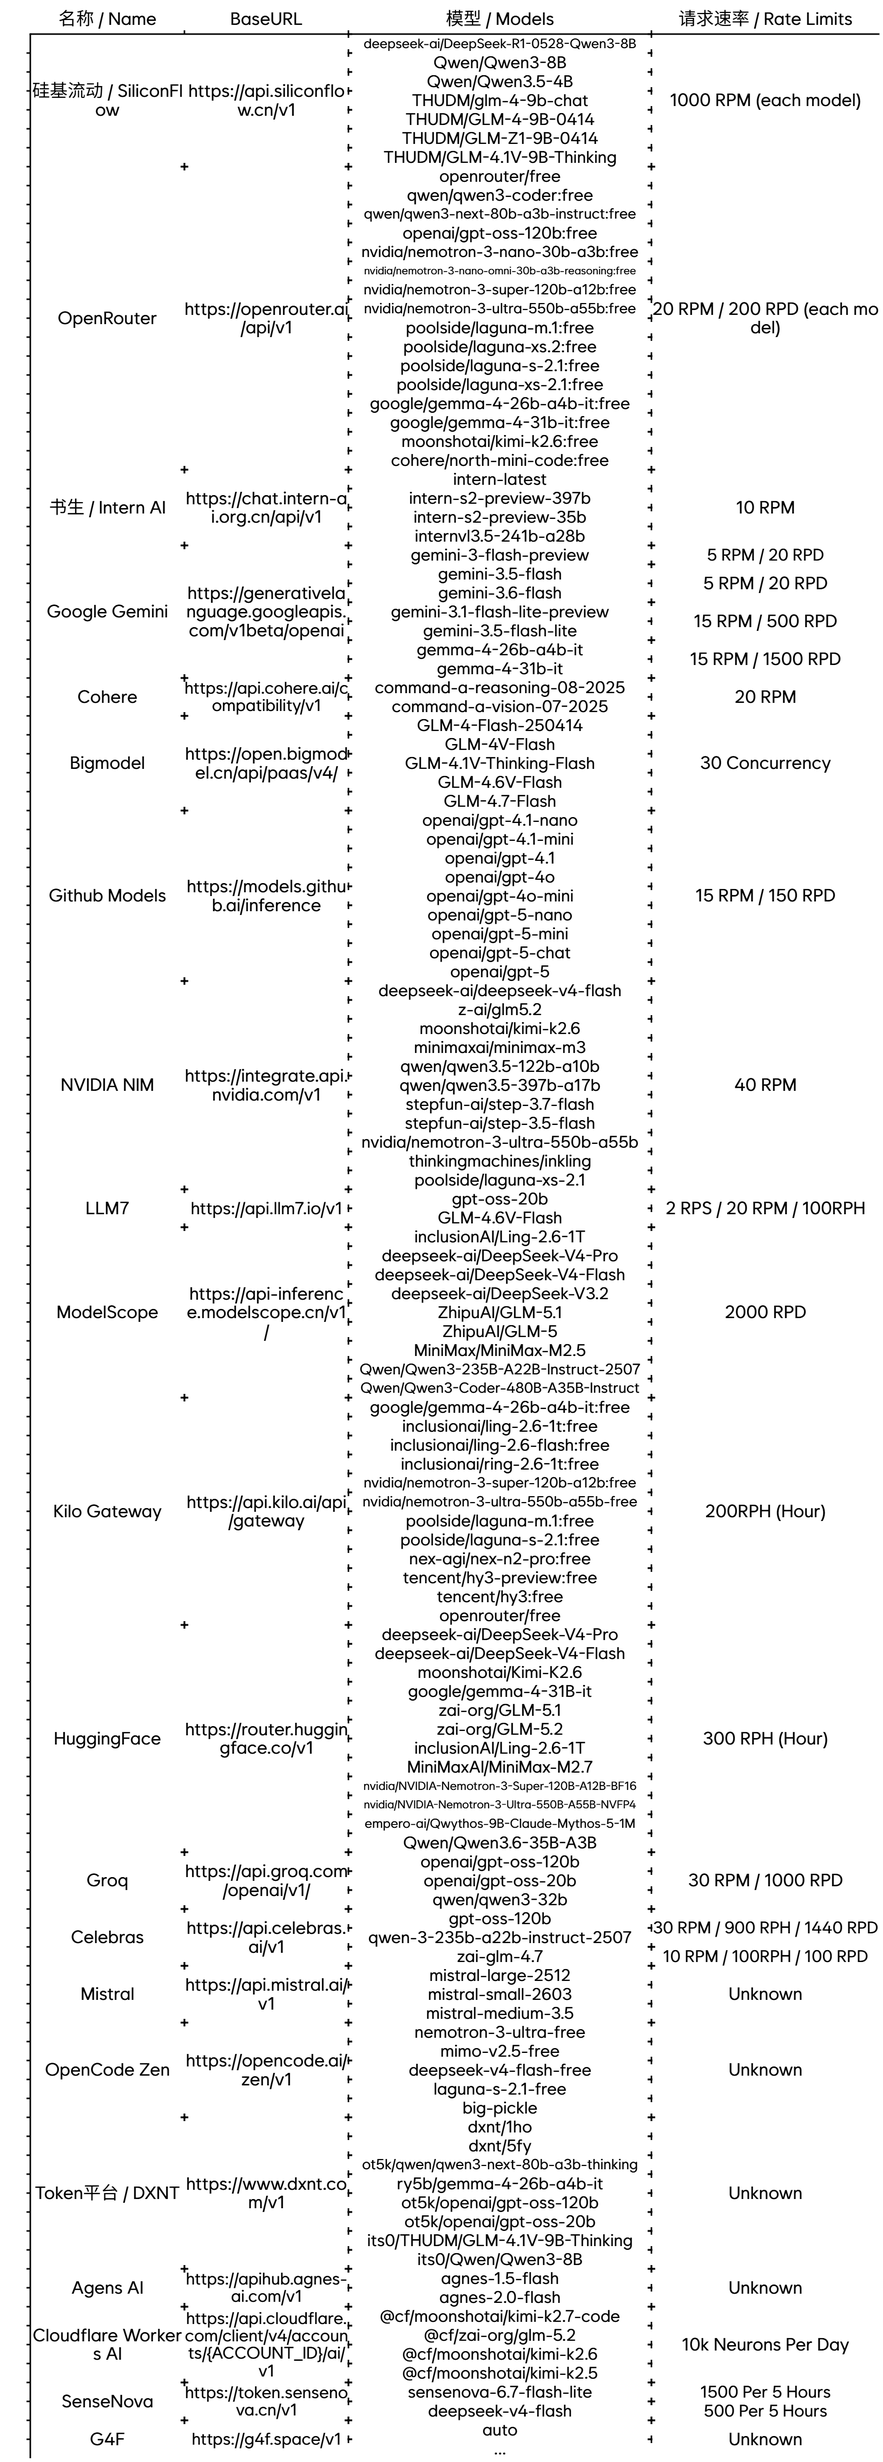
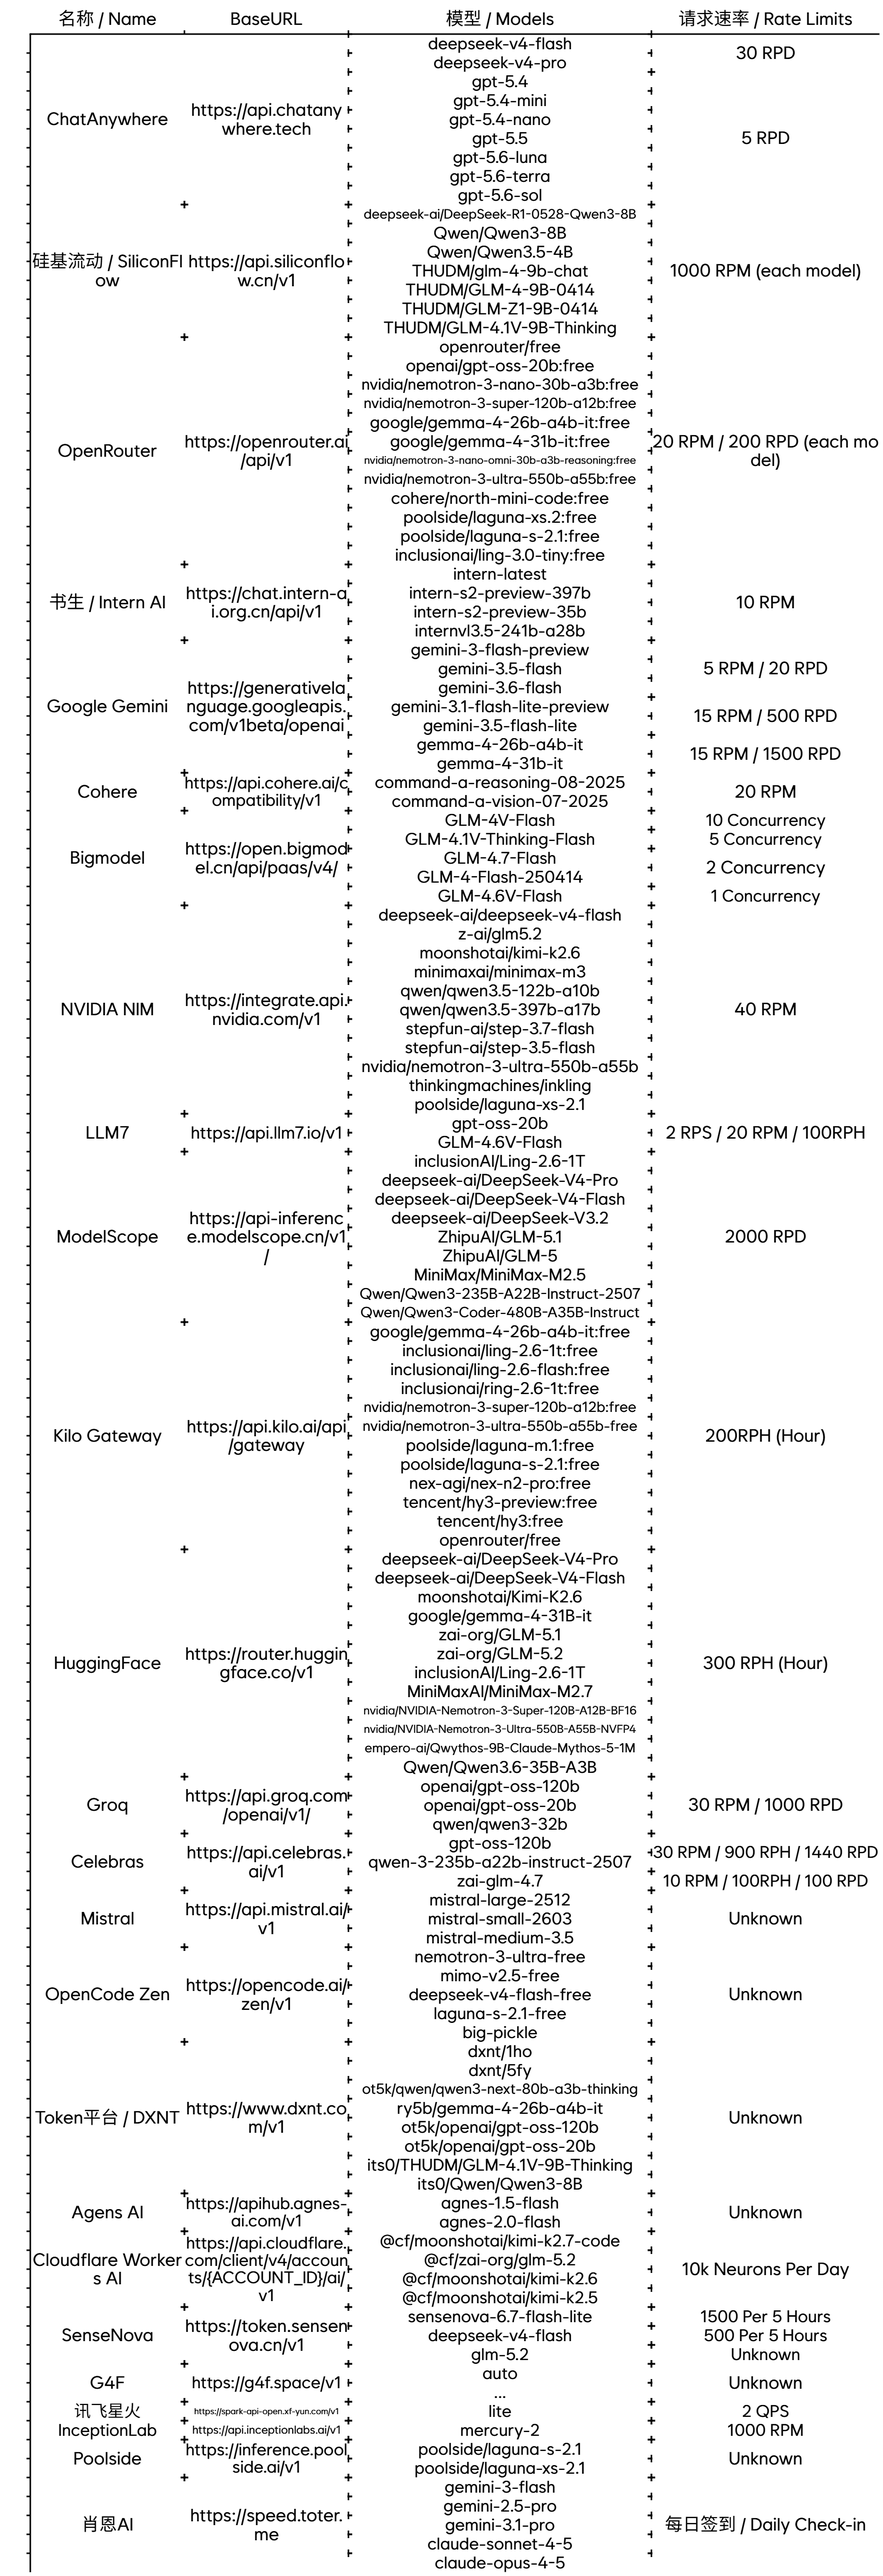
App flies yia Uplaod

diff --git a/README.md b/README.md
@@ -34,26 +34,6 @@ This data of the table was generated by LLM, Rendered by [Taple](https://t.ftz.i
 
 ## Markdown
 
-<!--
-### [ChatAnywhere](https://chatanywhere.tech)
-
-- **API:** [https://api.chatanywhere.tech](https://api.chatanywhere.tech)
-- **Rate Limits:** Unknown
-- **Models:**
-  - `gpt-5.4-mini-ca`
-  - `gpt-5.2-ca`
-  - `deepseek-v3.2`
-  - `gpt-5.4-ca`
-  - `gpt-5.2-chat-latest-ca`
-  - `gpt-4o-ca`
-  - `gpt-5.1-chat-latest-ca`
-  - `gpt-5.4-nano-ca`
-  - `deepseek-v4-pro`
-  - `deepseek-v3.2`
-  - `gpt-5.5-ca`
-  - `deepseek-v4-flash`
--->
-
 ### [硅基流动 / SiliconFlow](https://siliconflow.cn)
 
 - **API:** [https://api.siliconflow.cn/v1](https://api.siliconflow.cn/v1)
@@ -73,22 +53,17 @@ This data of the table was generated by LLM, Rendered by [Taple](https://t.ftz.i
 - **Rate Limits:** 20 RPM / 200 RPD (each model)
 - **Rec. Models:**
   - `openrouter/free`
-  - `qwen/qwen3-coder:free`
-  - `qwen/qwen3-next-80b-a3b-instruct:free`
-  - `openai/gpt-oss-120b:free`
+  - `openai/gpt-oss-20b:free`
   - `nvidia/nemotron-3-nano-30b-a3b:free`
-  - `nvidia/nemotron-3-nano-omni-30b-a3b-reasoning:free`
   - `nvidia/nemotron-3-super-120b-a12b:free`
-  - `nvidia/nemotron-3-ultra-550b-a55b:free`
-  - `poolside/laguna-m.1:free`
-  - `poolside/laguna-xs.2:free`
-  - `poolside/laguna-s-2.1:free`
-  - `poolside/laguna-xs-2.1:free`
   - `google/gemma-4-26b-a4b-it:free`
   - `google/gemma-4-31b-it:free`
-  - `moonshotai/kimi-k2.6:free`
+  - `nvidia/nemotron-3-nano-omni-30b-a3b-reasoning:free`
+  - `nvidia/nemotron-3-ultra-550b-a55b:free`
   - `cohere/north-mini-code:free`
-  - `inclusionai/ling-3.0-flash:free`
+  - `poolside/laguna-xs.2:free`
+  - `poolside/laguna-s-2.1:free`
+  - `inclusionai/ling-3.0-tiny:free`
 
 ### [书生 / Intern AI](https://chat.intern-ai.org.cn)
 
@@ -137,30 +112,23 @@ This data of the table was generated by LLM, Rendered by [Taple](https://t.ftz.i
 ### [Bigmodel](https://bigmodel.cn)
 
 - **API:** [https://open.bigmodel.cn/api/paas/v4/](https://open.bigmodel.cn/api/paas/v4/)
-- **Concurrent:** 30
+
+- **Concurrent:** 10
 - **Ava. Models:**
-  - `GLM-4-Flash-250414`
   - `GLM-4V-Flash`
+
+- **Concurrent:** 5
+- **Ava. Models:**
   - `GLM-4.1V-Thinking-Flash`
-  - `GLM-4.6V-Flash`
+
+- **Concurrent:** 2
+- **Ava. Models:**
   - `GLM-4.7-Flash`
+  - `GLM-4-Flash-250414`
 
-### [Github Models](https://github.com/marketplace?type=models)
-
-- **API:** [https://models.github.ai/inference](https://models.github.ai/inference)
-- **Rate Limits:** 15 RPM / 150 RPD
-- **Tip:** 
-  - 如果使用 Azure API，可以使用更多模型 / If used Azure API, more models available
-- **Rec. Models:**
-  - `openai/gpt-4.1-nano`
-  - `openai/gpt-4.1-mini`
-  - `openai/gpt-4.1`
-  - `openai/gpt-4o`
-  - `openai/gpt-4o-mini`
-  - `openai/gpt-5-nano`
-  - `openai/gpt-5-mini`
-  - `openai/gpt-5-chat`
-  - `openai/gpt-5`
+- **Concurrent:** 1
+- **Ava. Models:**
+  - `GLM-4.6V-Flash`
 
 ### [NVIDIA NIM](https://build.nvidia.com/)
 
@@ -322,9 +290,13 @@ This data of the table was generated by LLM, Rendered by [Taple](https://t.ftz.i
   - `sensenova-6.7-flash-lite`
   <!-- - `sensenova-u1-fast` -->
 
-- **Rate Limits:** 500 Per 5 Hours
+- **Rate Limits:** 500 Per 5 Hours + 可能来自上游的共用未知限制 Possibly Shared Unknown Limits From Upstream Service
 - **Models:**
   - `deepseek-v4-flash`
+
+- **Rate Limits:** Unknown + 可能来自上游的共用未知限制 Possibly Shared Unknown Limits From Upstream Service
+- **Models:**
+  - `glm-5.2`
 
 ### [G4F](https://g4f.dev/)
 
@@ -334,13 +306,68 @@ This data of the table was generated by LLM, Rendered by [Taple](https://t.ftz.i
   - `auto`
   - ...
 
+### [讯飞星火](https://console.xfyun.cn/)
+
+- **API:** [https://spark-api-open.xf-yun.com/v1](https://spark-api-open.xf-yun.com/v1)
+- **Rate Limits:** 2 QPS
+- **Ava. Models:**
+  - `lite`
+
+### [InceptionLab](https://platform.inceptionlabs.ai/)
+
+- **API:** [https://api.inceptionlabs.ai/v1](https://api.inceptionlabs.ai/v1)
+- **Rate Limits:** 1000 RPM
+- **Ava. Models:**
+  - `mercury-2`
+
+### [Poolside](https://platform.poolside.ai/)
+
+- **API:** [https://inference.poolside.ai/v1](https://inference.poolside.ai/v1)
+- **Rate Limits:** Unknown
+- **Ava. Models:**
+  - `poolside/laguna-s-2.1`
+  - `poolside/laguna-xs-2.1`
+
+### [ChatAnywhere](https://chatanywhere.tech)
+
+- **API:** [https://api.chatanywhere.tech](https://api.chatanywhere.tech)
+- **Rate Limits:** 1000 Points Per Day + ...
+
+- **Rate Limits:** 30 RPD
+- **Rec. Models:**
+  - `deepseek-v4-flash`
+  - `deepseek-v4-pro`
+
+- **Rate Limits:** 5 RPD
+- **Rec. Models:**
+  - `gpt-5.4`
+  - `gpt-5.4-mini`
+  - `gpt-5.4-nano`
+  - `gpt-5.5`
+  - `gpt-5.6-luna`
+  - `gpt-5.6-terra`
+  - `gpt-5.6-sol`
+
+……
+
+### [肖恩AI](https://free.supxh.xin)
+
+- **API:** [https://speed.toter.me](https://speed.toter.me)
+- **Limits:** 每日签到 / Daily Check-in
+- **Rec. Models:**
+  - `gemini-3-flash`
+  - `gemini-2.5-pro`
+  - `gemini-3.1-pro`
+  - `claude-sonnet-4-5`
+  - `claude-opus-4-5`
+
 ## 其它 / Other
 
 ### 来源 / Source
 
 - 自行收集 / Self-collected
 
-- 投稿（B站等） / Contributed by others
+- 投稿 / Contributed by others
 
 ### Star History
 
